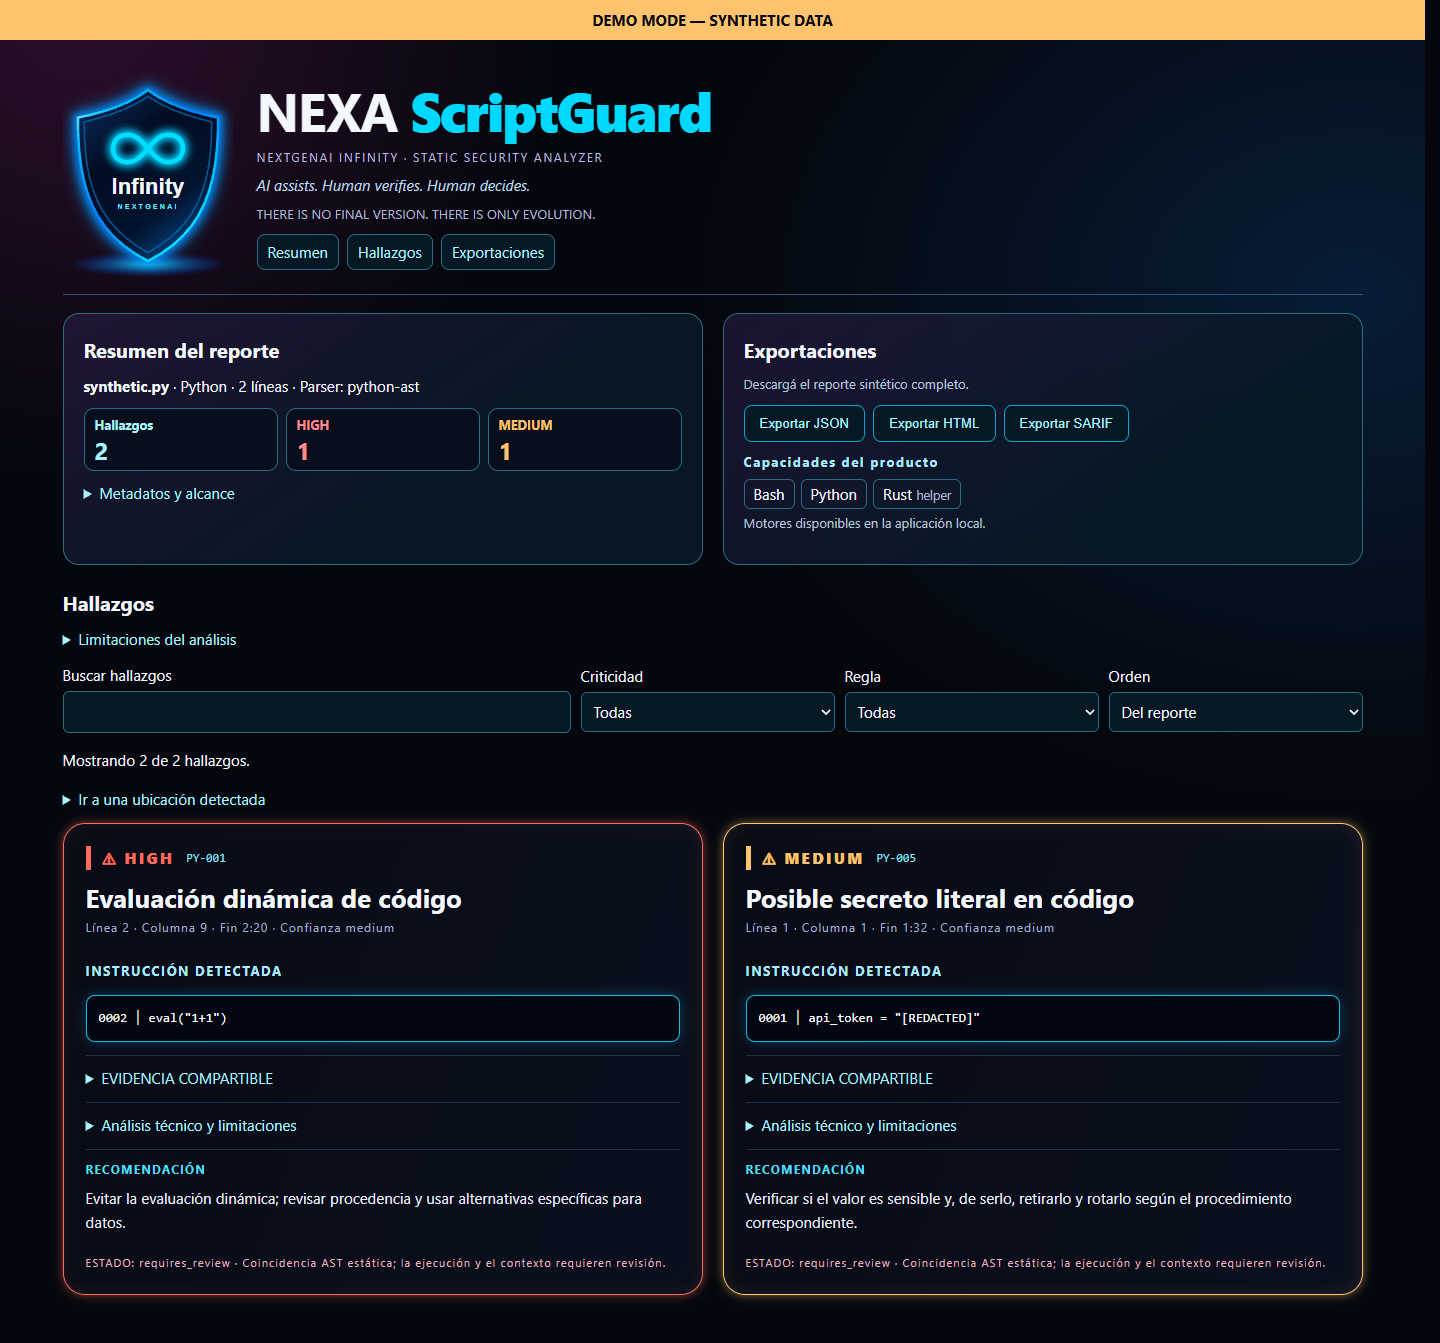
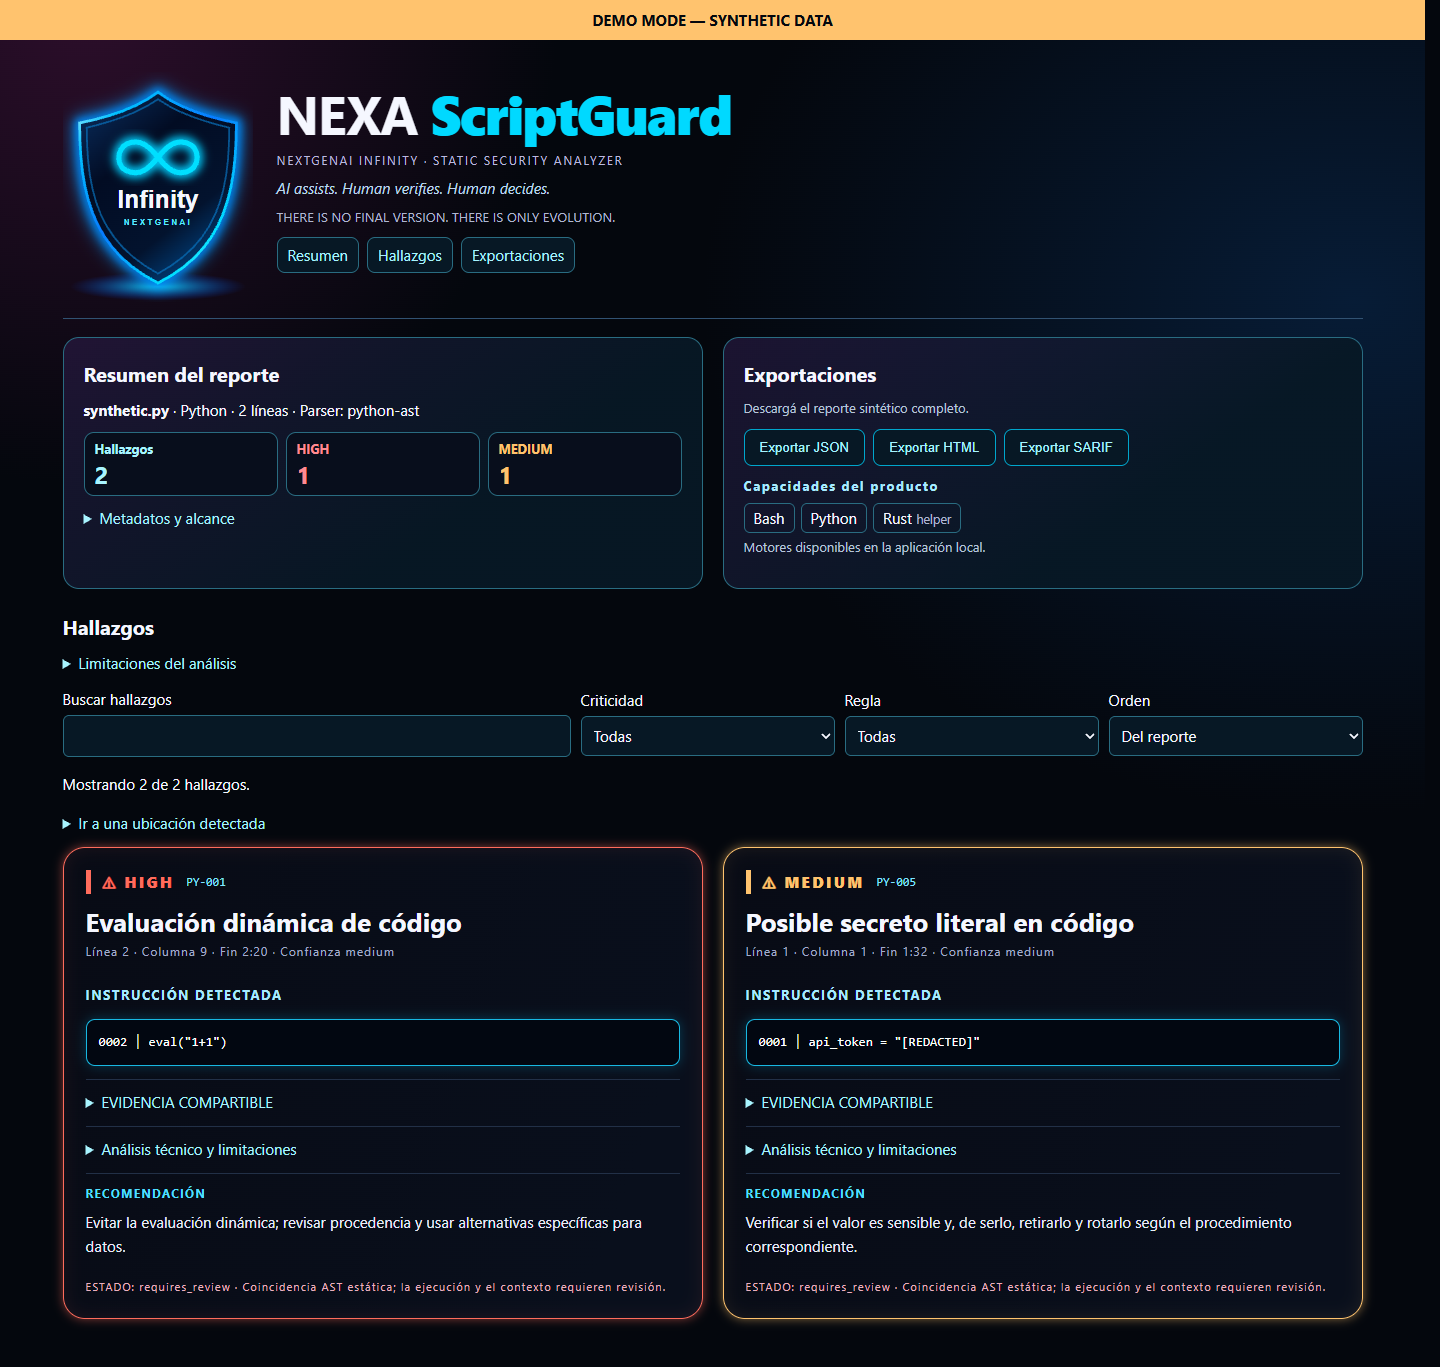
style: enlarge the Infinity shield and align it with the heading

diff --git a/nexa_scriptguard/gui_assets/modern/phase4.css b/nexa_scriptguard/gui_assets/modern/phase4.css
@@ -1,2 +1,2 @@
-:root{--bg:#04070d;--cyan:#00d9ff;--violet:#ab54ff;--red:#ff354c;--white:#f5f7ff;--muted:#b0b7d0}*{box-sizing:border-box}body{background:radial-gradient(ellipse at 6% 0%,#2d0e2b 0%,transparent 25%),radial-gradient(ellipse at 95% 22%,#071c36 0%,transparent 34%),var(--bg);color:var(--white);margin:0;font:15px/1.6 system-ui,sans-serif}main{max-width:1120px;margin:auto;padding:38px 22px 75px}header{border-bottom:1px solid #315272;flex-wrap:wrap;align-items:center;gap:20px;padding-bottom:22px;display:flex}header>div{flex:300px;min-width:0}.shield{flex:none;width:150px;height:auto;display:block}h1{letter-spacing:-1.4px;margin:0;font-size:clamp(30px,5vw,54px)}h1 b{color:#00d9ff}.subtitle{letter-spacing:.32em;color:#bcb9dd;font-size:12px}.motto{color:#bdd7ec;margin:6px 0;font-style:italic}.top{padding:24px 0}.top strong{color:#00d9ff}.path{overflow-wrap:anywhere;color:#edf2ff}.hash{color:#98acc9;overflow-wrap:anywhere;font:12px/1.8 ui-monospace,monospace}.summary{color:#94f1fc;background:#051825;border:1px solid #296c81;border-radius:9px;margin-top:12px;padding:9px 16px;display:inline-block}.finding{border:1px solid var(--sev,#ff354c);box-shadow:0 0 10px color-mix(in srgb,var(--sev) 50%,transparent),inset 0 0 17px color-mix(in srgb,var(--sev) 9%,transparent);background:linear-gradient(110deg,#080b15,#090f1c 85%);border-radius:22px;margin:27px 0;padding:25px 28px}.heading{flex-wrap:wrap;align-items:center;gap:12px;display:flex}.flag{letter-spacing:.16em;color:var(--sev);border-left:5px solid var(--sev);padding-left:12px;font-weight:800}.rule{color:#80e5ff;font:12px ui-monospace,monospace}.finding h2{margin:12px 0 4px;font-size:clamp(21px,3vw,30px)}.metadata{letter-spacing:.08em;color:#a3adca;font-size:12px}.metadata strong{color:#fff}h3{color:#a8eaff;letter-spacing:.12em;margin-top:24px;font-size:13px}.instruction{white-space:pre-wrap;overflow-wrap:anywhere;color:#fff;background:#020711;border:1px solid #18b8e2;border-radius:9px;padding:19px;font-size:13px;overflow:auto;box-shadow:0 0 12px #02b9ed45}.line-number{color:#ff465d;font-weight:800}.detail{border-top:1px solid #223047;margin-top:16px;padding-top:13px}.detail>span{letter-spacing:.1em;color:#50dfff;font-size:12px;font-weight:750;display:block}.detail p{color:#e9edfa;margin:7px 0}.detail code{color:#e9e8fc;overflow-wrap:anywhere}.detail ul{margin-bottom:5px;padding-left:20px}.detail li{margin-top:7px}footer{color:#e7b1bf;letter-spacing:.1em;margin-top:20px;font-size:11px}.notice{color:#b8c5d9;font-size:13px}.branding{color:#b4a3e6;text-align:center;letter-spacing:.04em;margin-top:36px}@media (width<=600px){.finding{padding:18px}}.controls{flex-wrap:wrap;align-items:center;gap:12px;margin:15px 0;display:flex}.controls[hidden]{display:none}button{color:#a8f4ff;cursor:pointer;background:#071825;border:1px solid #00a6cc;border-radius:8px;padding:10px 15px}input::file-selector-button{color:#a8f4ff;cursor:pointer;background:#071825;border:1px solid #00a6cc;border-radius:8px;padding:10px 15px}button:disabled{opacity:.5;cursor:not-allowed}input{color:#e9edfa;max-width:100%}.finding.sev-critical{--sev:#ff3e51}.finding.sev-high{--sev:#ff6c5c}.finding.sev-medium{--sev:#ffc36e}.finding.sev-low{--sev:#40d5ed}.finding.sev-info{--sev:#98a6c8}.error{color:#ffb4bc;border-color:#ff354c}:root{--ngi-cyan:#00d9ff;--ngi-error:#ff354c;--ngi-warning:#ffc36e;--ngi-link:#a8f4ff;--ngi-text:#f5f7ff;--ngi-surface:#071825;--ngi-border:#296c81}.ngi-navigation{flex-wrap:wrap;gap:1rem;margin-top:1rem;display:flex}.ngi-navigation a{color:var(--ngi-link)}:focus-visible{outline:2px solid var(--ngi-cyan);outline-offset:4px}.ngi-evidence{white-space:pre-wrap;overflow-wrap:anywhere}.ngi-disclosure summary{cursor:pointer;color:var(--ngi-link)}.ngi-status-error{border-color:var(--ngi-error);color:#ffb4bc}.ngi-status-warning{border-color:var(--ngi-warning);color:var(--ngi-warning)}.finding,.rule,.metadata{overflow-wrap:anywhere}.finding-filters label{gap:4px;max-width:100%;display:grid}.finding-filters input,.finding-filters select{background:var(--ngi-surface);color:var(--ngi-text);border:1px solid #296c81;border-radius:6px;max-width:100%;padding:8px}#hallazgos a{color:var(--ngi-link)}.demo-banner{z-index:1;background:var(--ngi-warning);color:#04070d;text-align:center;margin:0;padding:8px;font-weight:750;position:sticky;top:0}.scriptguard-page{scrollbar-gutter:stable;scrollbar-color:#418b9f #071825;overflow-y:scroll}.scriptguard-dashboard{max-width:1380px;padding:clamp(14px,2.4vw,32px) clamp(14px,3vw,40px) 48px}.demo-banner+main section[id]{scroll-margin-top:64px}.scriptguard-dashboard>header{flex-wrap:nowrap;gap:clamp(12px,2vw,24px);padding-bottom:16px}.scriptguard-dashboard>header .shield{width:clamp(80px,13vw,170px)}.scriptguard-dashboard h1{overflow-wrap:anywhere;font-size:clamp(25px,4.5vw,54px);line-height:1.12}.scriptguard-dashboard .subtitle{letter-spacing:.14em;margin-top:8px}.dashboard-creed{color:var(--muted);margin:6px 0 0;font-size:.82rem}.scriptguard-dashboard .ngi-navigation{gap:6px 8px;margin-top:10px}.scriptguard-dashboard .ngi-navigation a{border:1px solid var(--ngi-border);background:var(--ngi-surface);border-radius:8px;align-items:center;min-height:36px;padding:4px 10px;text-decoration:none;display:inline-flex}.scriptguard-dashboard .ngi-navigation a:hover{text-decoration:underline}.dashboard-overview,.findings-grid{grid-template-columns:repeat(2,minmax(0,1fr));gap:clamp(12px,1.5vw,20px);display:grid}.dashboard-overview{margin:18px 0 22px}.dashboard-panel{border:1px solid var(--ngi-border);background:linear-gradient(145deg,#2f1d4d8c,#071825f0 65%);border-radius:16px;min-width:0;padding:clamp(12px,1.6vw,20px)}.dashboard-panel h2,.scriptguard-dashboard #hallazgos>h2{margin:0 0 8px;font-size:1.25rem}.dashboard-panel .notice,.dashboard-file{margin:4px 0 10px}.dashboard-panel h3{margin:10px 0 6px}.dashboard-metrics{grid-template-columns:repeat(auto-fit,minmax(min(100%,86px),1fr));gap:8px;margin:10px 0;display:grid}.dashboard-metrics>div{border:1px solid var(--ngi-border);color:var(--metric-color,var(--ngi-link));background:#080e1c;border-radius:10px;padding:6px 10px}.dashboard-metrics dt{font-size:.8rem;font-weight:650}.dashboard-metrics dd{margin:0;font-size:1.5rem;font-weight:750;line-height:1.2}.metric-critical,.metric-high{--metric-color:#ff8b91}.metric-medium{--metric-color:var(--ngi-warning)}.dashboard-metadata summary,.scriptguard-dashboard #hallazgos summary{cursor:pointer;color:var(--ngi-link)}.dashboard-capabilities{flex-wrap:wrap;gap:6px;margin:0;padding:0;list-style:none;display:flex}.dashboard-capabilities li{border:1px solid var(--ngi-border);border-radius:6px;padding:2px 9px}.dashboard-capabilities small{color:var(--muted)}.dashboard-panel .controls{gap:8px;margin:8px 0}.scriptguard-dashboard .finding-filters{grid-template-columns:minmax(0,2fr) repeat(3,minmax(0,1fr));gap:10px;margin:12px 0;display:grid}.scriptguard-dashboard .finding-filters :is(input,select){width:100%;min-height:38px;font:inherit}.findings-grid{align-items:start;margin-top:12px}.findings-grid .finding{margin:0;padding:clamp(14px,1.8vw,22px)}.findings-grid .finding h2{font-size:clamp(20px,2vw,26px);line-height:1.25}.findings-grid .instruction{padding:12px}.findings-grid .detail{margin-top:12px;padding-top:10px}.findings-grid .detail[open]>p{background:#080e1c;border-radius:8px;padding:10px}@media (width<=750px){.dashboard-overview,.findings-grid{grid-template-columns:minmax(0,1fr)}.scriptguard-dashboard .finding-filters{grid-template-columns:repeat(2,minmax(0,1fr))}.scriptguard-dashboard .ngi-navigation a,.scriptguard-dashboard .finding-filters :is(input,select),.dashboard-panel button{min-height:44px}}@media (width<=400px){.scriptguard-dashboard>header{align-items:start}.scriptguard-dashboard>header .shield{margin-top:4px}.scriptguard-dashboard .ngi-navigation a{padding-inline:8px}}.scriptguard-page body{min-height:100vh}.dashboard-panel .path{color:var(--ngi-cyan)}.dashboard-panel .summary{margin:8px 0}.dashboard-file{overflow-wrap:anywhere}
+:root{--bg:#04070d;--cyan:#00d9ff;--violet:#ab54ff;--red:#ff354c;--white:#f5f7ff;--muted:#b0b7d0}*{box-sizing:border-box}body{background:radial-gradient(ellipse at 6% 0%,#2d0e2b 0%,transparent 25%),radial-gradient(ellipse at 95% 22%,#071c36 0%,transparent 34%),var(--bg);color:var(--white);margin:0;font:15px/1.6 system-ui,sans-serif}main{max-width:1120px;margin:auto;padding:38px 22px 75px}header{border-bottom:1px solid #315272;flex-wrap:wrap;align-items:center;gap:20px;padding-bottom:22px;display:flex}header>div{flex:300px;min-width:0}.shield{flex:none;width:150px;height:auto;display:block}h1{letter-spacing:-1.4px;margin:0;font-size:clamp(30px,5vw,54px)}h1 b{color:#00d9ff}.subtitle{letter-spacing:.32em;color:#bcb9dd;font-size:12px}.motto{color:#bdd7ec;margin:6px 0;font-style:italic}.top{padding:24px 0}.top strong{color:#00d9ff}.path{overflow-wrap:anywhere;color:#edf2ff}.hash{color:#98acc9;overflow-wrap:anywhere;font:12px/1.8 ui-monospace,monospace}.summary{color:#94f1fc;background:#051825;border:1px solid #296c81;border-radius:9px;margin-top:12px;padding:9px 16px;display:inline-block}.finding{border:1px solid var(--sev,#ff354c);box-shadow:0 0 10px color-mix(in srgb,var(--sev) 50%,transparent),inset 0 0 17px color-mix(in srgb,var(--sev) 9%,transparent);background:linear-gradient(110deg,#080b15,#090f1c 85%);border-radius:22px;margin:27px 0;padding:25px 28px}.heading{flex-wrap:wrap;align-items:center;gap:12px;display:flex}.flag{letter-spacing:.16em;color:var(--sev);border-left:5px solid var(--sev);padding-left:12px;font-weight:800}.rule{color:#80e5ff;font:12px ui-monospace,monospace}.finding h2{margin:12px 0 4px;font-size:clamp(21px,3vw,30px)}.metadata{letter-spacing:.08em;color:#a3adca;font-size:12px}.metadata strong{color:#fff}h3{color:#a8eaff;letter-spacing:.12em;margin-top:24px;font-size:13px}.instruction{white-space:pre-wrap;overflow-wrap:anywhere;color:#fff;background:#020711;border:1px solid #18b8e2;border-radius:9px;padding:19px;font-size:13px;overflow:auto;box-shadow:0 0 12px #02b9ed45}.line-number{color:#ff465d;font-weight:800}.detail{border-top:1px solid #223047;margin-top:16px;padding-top:13px}.detail>span{letter-spacing:.1em;color:#50dfff;font-size:12px;font-weight:750;display:block}.detail p{color:#e9edfa;margin:7px 0}.detail code{color:#e9e8fc;overflow-wrap:anywhere}.detail ul{margin-bottom:5px;padding-left:20px}.detail li{margin-top:7px}footer{color:#e7b1bf;letter-spacing:.1em;margin-top:20px;font-size:11px}.notice{color:#b8c5d9;font-size:13px}.branding{color:#b4a3e6;text-align:center;letter-spacing:.04em;margin-top:36px}@media (width<=600px){.finding{padding:18px}}.controls{flex-wrap:wrap;align-items:center;gap:12px;margin:15px 0;display:flex}.controls[hidden]{display:none}button{color:#a8f4ff;cursor:pointer;background:#071825;border:1px solid #00a6cc;border-radius:8px;padding:10px 15px}input::file-selector-button{color:#a8f4ff;cursor:pointer;background:#071825;border:1px solid #00a6cc;border-radius:8px;padding:10px 15px}button:disabled{opacity:.5;cursor:not-allowed}input{color:#e9edfa;max-width:100%}.finding.sev-critical{--sev:#ff3e51}.finding.sev-high{--sev:#ff6c5c}.finding.sev-medium{--sev:#ffc36e}.finding.sev-low{--sev:#40d5ed}.finding.sev-info{--sev:#98a6c8}.error{color:#ffb4bc;border-color:#ff354c}:root{--ngi-cyan:#00d9ff;--ngi-error:#ff354c;--ngi-warning:#ffc36e;--ngi-link:#a8f4ff;--ngi-text:#f5f7ff;--ngi-surface:#071825;--ngi-border:#296c81}.ngi-navigation{flex-wrap:wrap;gap:1rem;margin-top:1rem;display:flex}.ngi-navigation a{color:var(--ngi-link)}:focus-visible{outline:2px solid var(--ngi-cyan);outline-offset:4px}.ngi-evidence{white-space:pre-wrap;overflow-wrap:anywhere}.ngi-disclosure summary{cursor:pointer;color:var(--ngi-link)}.ngi-status-error{border-color:var(--ngi-error);color:#ffb4bc}.ngi-status-warning{border-color:var(--ngi-warning);color:var(--ngi-warning)}.finding,.rule,.metadata{overflow-wrap:anywhere}.finding-filters label{gap:4px;max-width:100%;display:grid}.finding-filters input,.finding-filters select{background:var(--ngi-surface);color:var(--ngi-text);border:1px solid #296c81;border-radius:6px;max-width:100%;padding:8px}#hallazgos a{color:var(--ngi-link)}.demo-banner{z-index:1;background:var(--ngi-warning);color:#04070d;text-align:center;margin:0;padding:8px;font-weight:750;position:sticky;top:0}.scriptguard-page{scrollbar-gutter:stable;scrollbar-color:#418b9f #071825;overflow-y:scroll}.scriptguard-dashboard{max-width:1380px;padding:clamp(14px,2.4vw,32px) clamp(14px,3vw,40px) 48px}.demo-banner+main section[id]{scroll-margin-top:64px}.scriptguard-dashboard>header{flex-wrap:nowrap;align-items:start;gap:clamp(12px,2vw,24px);padding-bottom:16px}.scriptguard-dashboard>header .shield{width:clamp(88px,14.5vw,190px)}.scriptguard-dashboard>header>div{padding-block-start:clamp(4px,.75vw,11px)}.scriptguard-dashboard h1{overflow-wrap:anywhere;font-size:clamp(25px,4.5vw,54px);line-height:1.12}.scriptguard-dashboard .subtitle{letter-spacing:.14em;margin-top:8px}.dashboard-creed{color:var(--muted);margin:6px 0 0;font-size:.82rem}.scriptguard-dashboard .ngi-navigation{gap:6px 8px;margin-top:10px}.scriptguard-dashboard .ngi-navigation a{border:1px solid var(--ngi-border);background:var(--ngi-surface);border-radius:8px;align-items:center;min-height:36px;padding:4px 10px;text-decoration:none;display:inline-flex}.scriptguard-dashboard .ngi-navigation a:hover{text-decoration:underline}.dashboard-overview,.findings-grid{grid-template-columns:repeat(2,minmax(0,1fr));gap:clamp(12px,1.5vw,20px);display:grid}.dashboard-overview{margin:18px 0 22px}.dashboard-panel{border:1px solid var(--ngi-border);background:linear-gradient(145deg,#2f1d4d8c,#071825f0 65%);border-radius:16px;min-width:0;padding:clamp(12px,1.6vw,20px)}.dashboard-panel h2,.scriptguard-dashboard #hallazgos>h2{margin:0 0 8px;font-size:1.25rem}.dashboard-panel .notice,.dashboard-file{margin:4px 0 10px}.dashboard-panel h3{margin:10px 0 6px}.dashboard-metrics{grid-template-columns:repeat(auto-fit,minmax(min(100%,86px),1fr));gap:8px;margin:10px 0;display:grid}.dashboard-metrics>div{border:1px solid var(--ngi-border);color:var(--metric-color,var(--ngi-link));background:#080e1c;border-radius:10px;padding:6px 10px}.dashboard-metrics dt{font-size:.8rem;font-weight:650}.dashboard-metrics dd{margin:0;font-size:1.5rem;font-weight:750;line-height:1.2}.metric-critical,.metric-high{--metric-color:#ff8b91}.metric-medium{--metric-color:var(--ngi-warning)}.dashboard-metadata summary,.scriptguard-dashboard #hallazgos summary{cursor:pointer;color:var(--ngi-link)}.dashboard-capabilities{flex-wrap:wrap;gap:6px;margin:0;padding:0;list-style:none;display:flex}.dashboard-capabilities li{border:1px solid var(--ngi-border);border-radius:6px;padding:2px 9px}.dashboard-capabilities small{color:var(--muted)}.dashboard-panel .controls{gap:8px;margin:8px 0}.scriptguard-dashboard .finding-filters{grid-template-columns:minmax(0,2fr) repeat(3,minmax(0,1fr));gap:10px;margin:12px 0;display:grid}.scriptguard-dashboard .finding-filters :is(input,select){width:100%;min-height:38px;font:inherit}.findings-grid{align-items:start;margin-top:12px}.findings-grid .finding{margin:0;padding:clamp(14px,1.8vw,22px)}.findings-grid .finding h2{font-size:clamp(20px,2vw,26px);line-height:1.25}.findings-grid .instruction{padding:12px}.findings-grid .detail{margin-top:12px;padding-top:10px}.findings-grid .detail[open]>p{background:#080e1c;border-radius:8px;padding:10px}@media (width<=750px){.dashboard-overview,.findings-grid{grid-template-columns:minmax(0,1fr)}.scriptguard-dashboard .finding-filters{grid-template-columns:repeat(2,minmax(0,1fr))}.scriptguard-dashboard .ngi-navigation a,.scriptguard-dashboard .finding-filters :is(input,select),.dashboard-panel button{min-height:44px}}@media (width<=400px){.scriptguard-dashboard .ngi-navigation a{padding-inline:8px}}.scriptguard-page body{min-height:100vh}.dashboard-panel .path{color:var(--ngi-cyan)}.dashboard-panel .summary{margin:8px 0}.dashboard-file{overflow-wrap:anywhere}
 /*$vite$:1*/

diff --git a/frontend/src/dashboard.css b/frontend/src/dashboard.css
@@ -19,8 +19,14 @@
   padding: clamp(14px, 2.4vw, 32px) clamp(14px, 3vw, 40px) 48px;
 }
 .demo-banner + main section[id] { scroll-margin-top: 64px; }
-.scriptguard-dashboard > header { gap: clamp(12px, 2vw, 24px); padding-bottom: 16px; flex-wrap: nowrap; }
-.scriptguard-dashboard > header .shield { width: clamp(80px, 13vw, 170px); }
+.scriptguard-dashboard > header {
+  align-items: start;
+  gap: clamp(12px, 2vw, 24px);
+  padding-bottom: 16px;
+  flex-wrap: nowrap;
+}
+.scriptguard-dashboard > header .shield { width: clamp(88px, 14.5vw, 190px); }
+.scriptguard-dashboard > header > div { padding-block-start: clamp(4px, .75vw, 11px); }
 .scriptguard-dashboard h1 { font-size: clamp(25px, 4.5vw, 54px); line-height: 1.12; overflow-wrap: anywhere; }
 .scriptguard-dashboard .subtitle { margin-top: 8px; letter-spacing: .14em; }
 .dashboard-creed { color: var(--muted); font-size: .82rem; margin: 6px 0 0; }
@@ -95,8 +101,6 @@
   .dashboard-panel button { min-height: 44px; }
 }
 @media (max-width: 400px) {
-  .scriptguard-dashboard > header { align-items: start; }
-  .scriptguard-dashboard > header .shield { margin-top: 4px; }
   .scriptguard-dashboard .ngi-navigation a { padding-inline: 8px; }
 }
 
